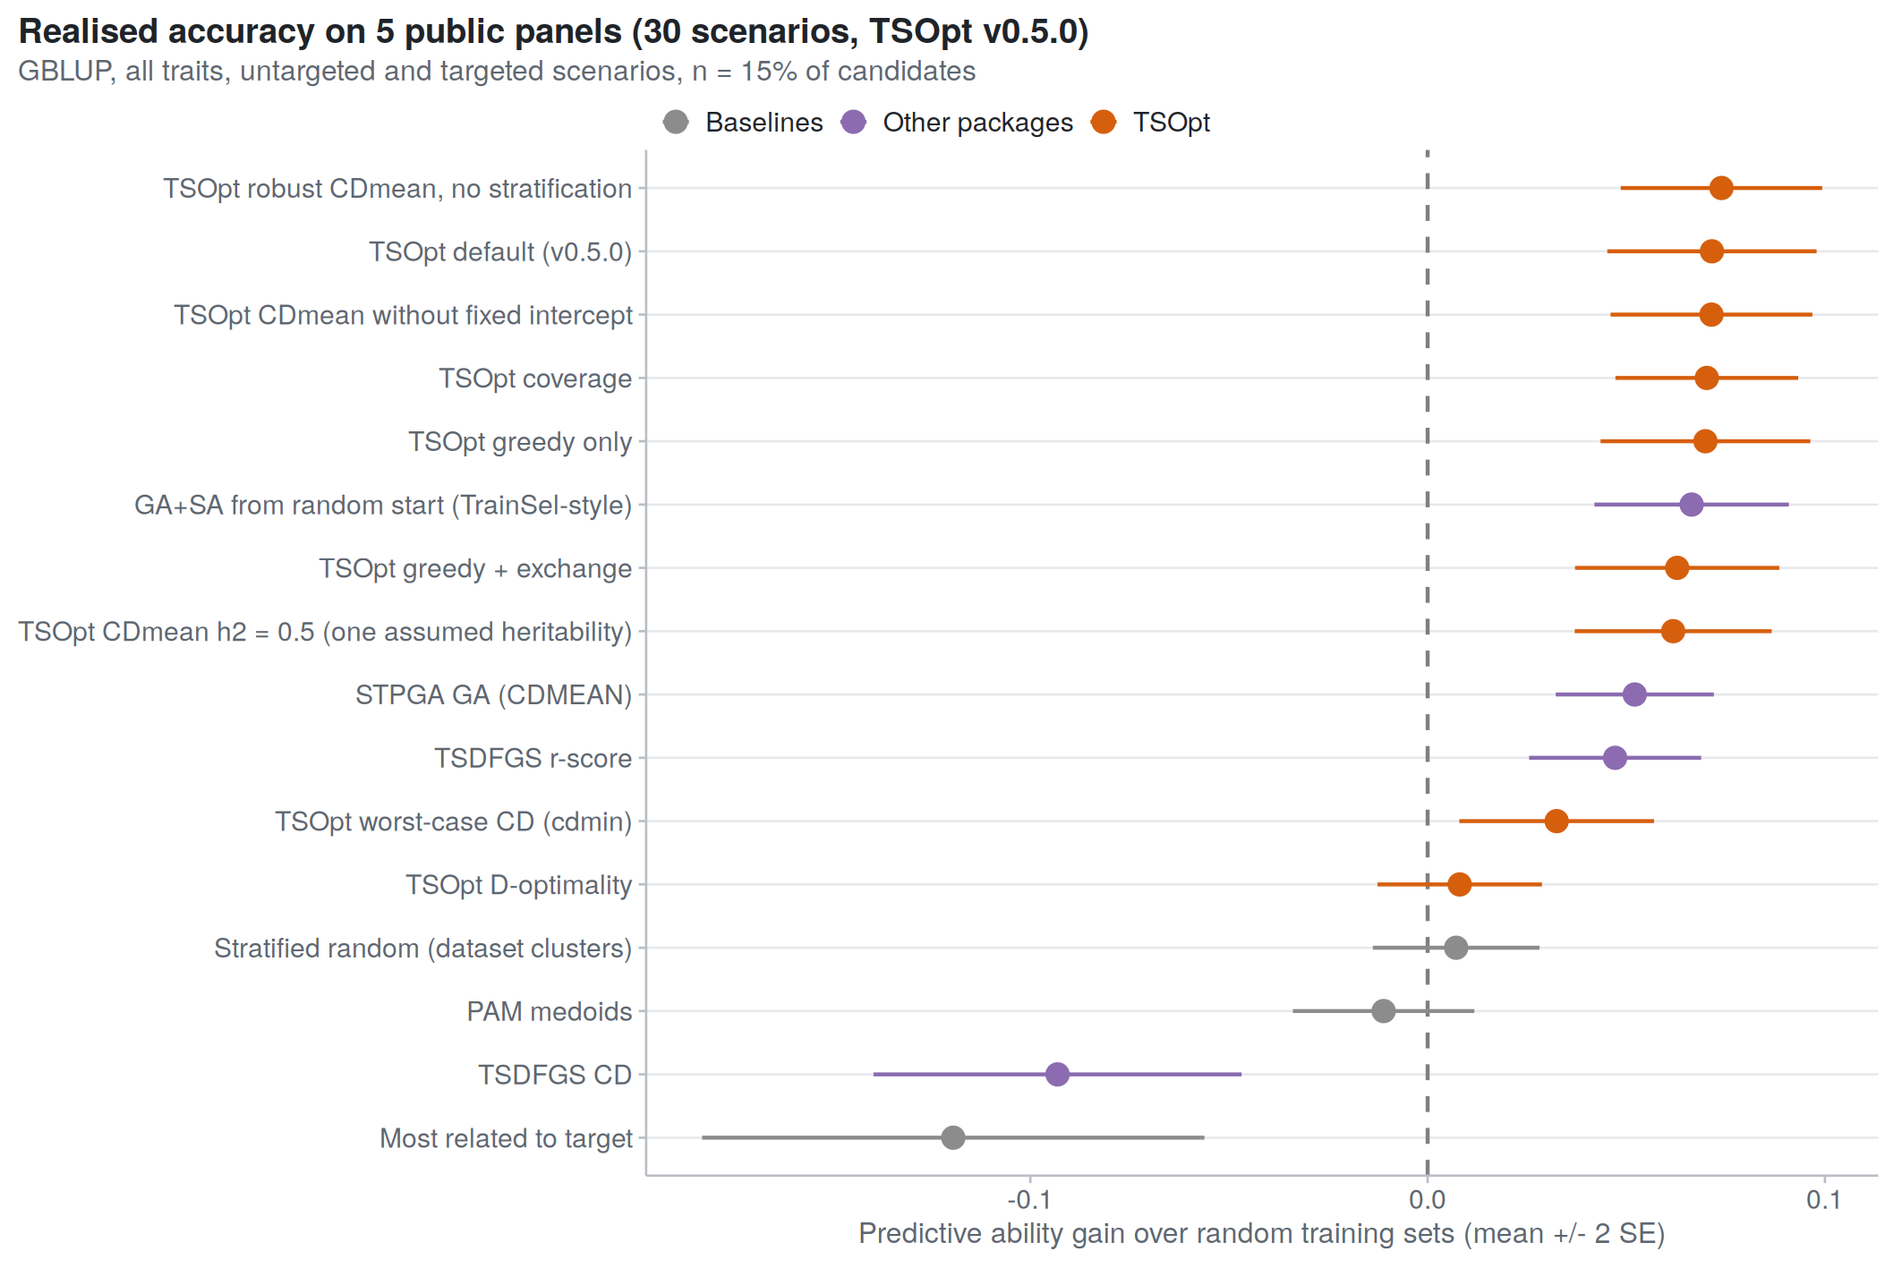
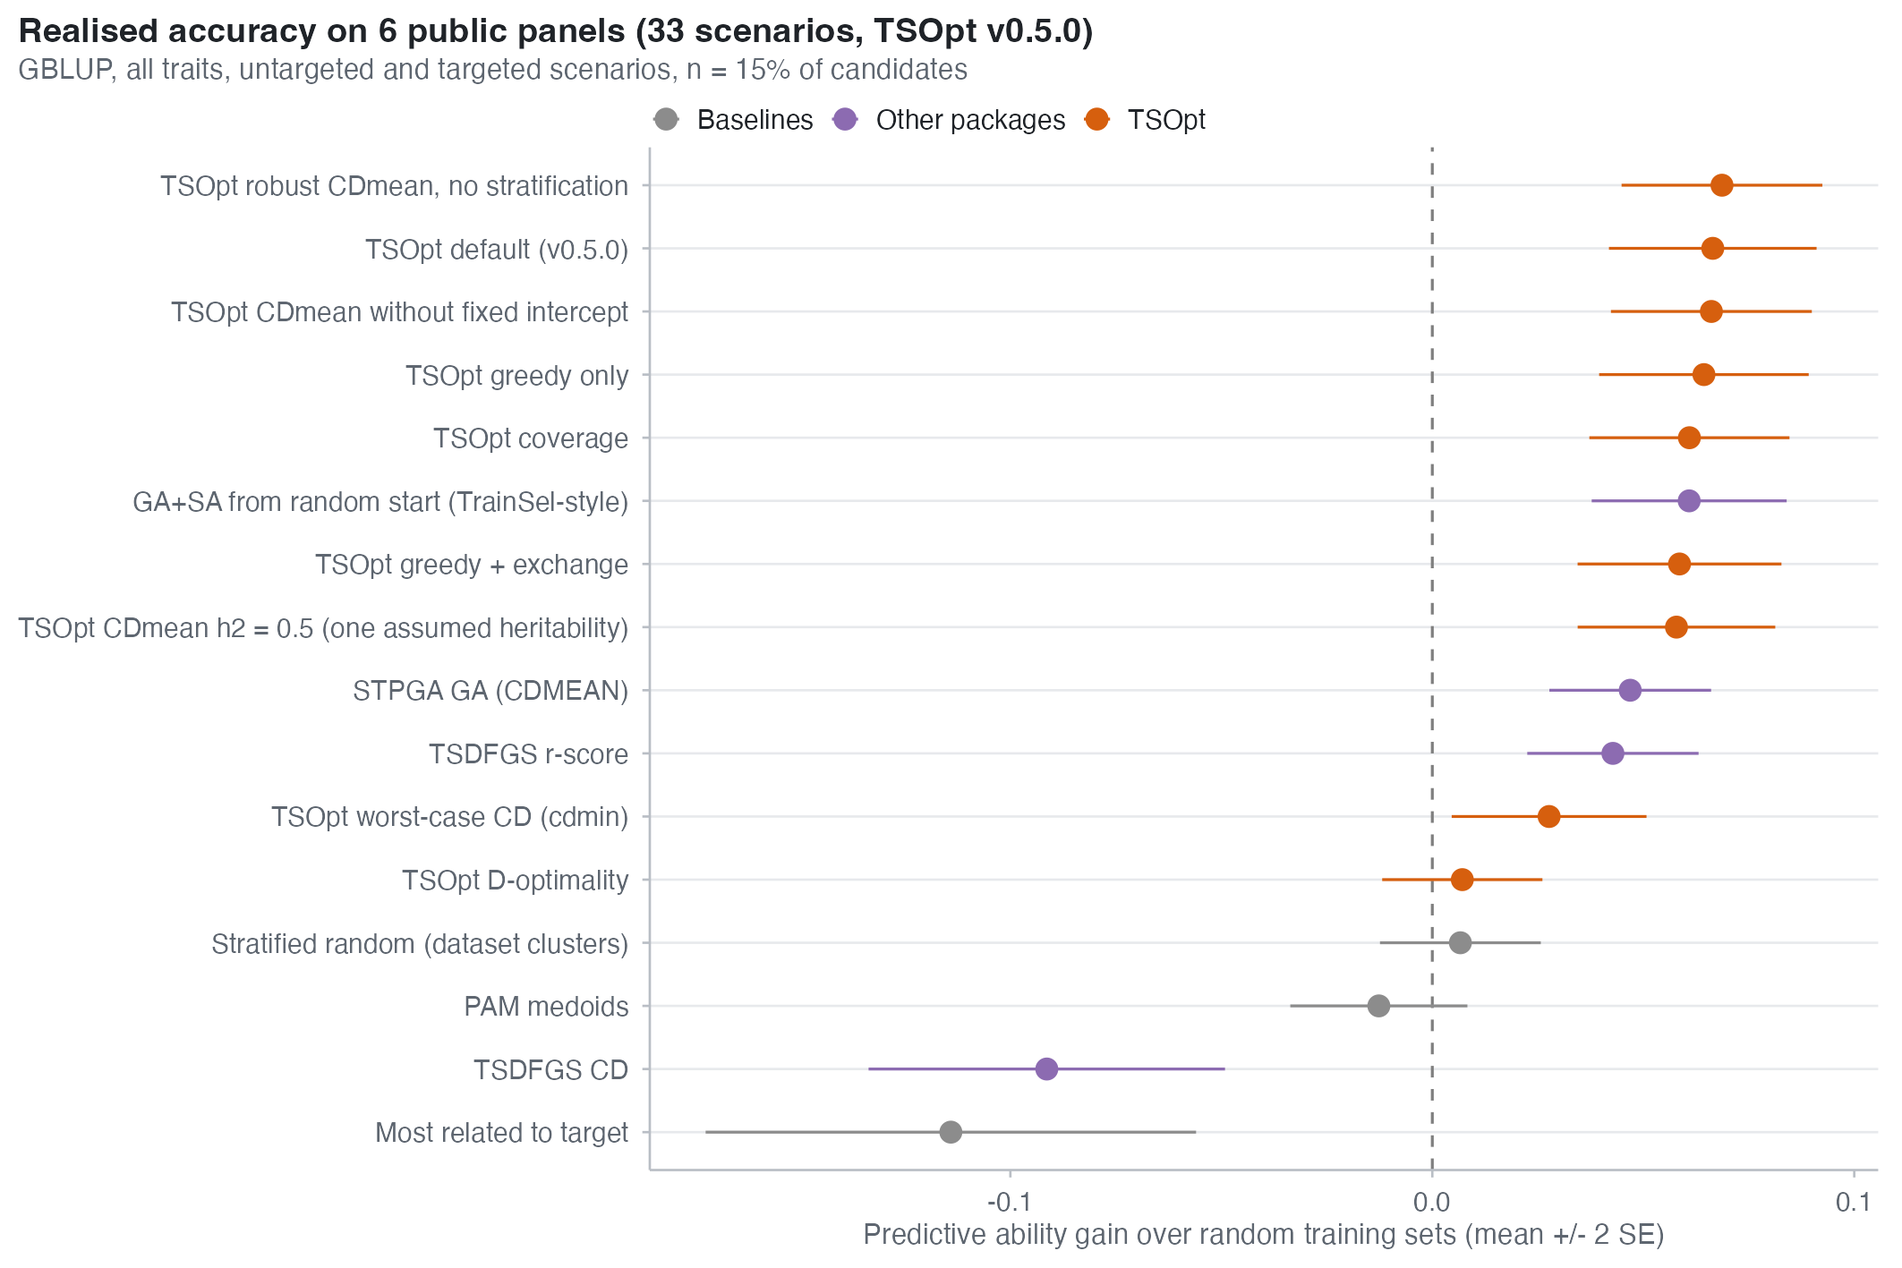
Benchmark: complete Spruce run (33 scenarios, six panels), file names matched to the release plan
- Spruce rerun with TSOpt 0.5.0 finished for every method; README, benchmark/README.md,
  EVIDENCE.md, STABILITY.md, REPRODUCIBILITY.md and the figures now use all 33 scenarios
- Install docs use the planned asset names (TSOpt_0.5.0_macos-arm64.tgz, _macos-x86_64.tgz)
- REPRODUCIBILITY.md says what the installed package already shows (R code) and what the
  source request covers (C engine, tests, build)

Claude-Session: https://claude.ai/code/session_01NcoSHn4t3meHxDN5W8ypQi

diff --git a/benchmark/README.md b/benchmark/README.md
@@ -20,69 +20,76 @@ All claims, with their data, effect sizes and number of runs, are collected in
 | | |
 |---|---|
 | Panels | The six public panels compiled by Fernández-González et al. (2023, *Theor Appl Genet* 136:30): Maize (391 lines), RicePS (357), Rice (327), Sorghum (451), Switchgrass (514) and Spruce (1,722), all traits of each. They are not redistributed here; obtain them from the original publication. |
-| Scenarios | **Untargeted**: the whole pool is scored. **Targeted**: a random 25% of lines are targets and are never phenotyped; 5 splits per panel (Spruce: 2). 33 scenarios in total. |
+| Scenarios | **Untargeted**: the whole pool is scored. **Targeted**: a random 25% of lines are targets and are never phenotyped; 5 splits per panel (Spruce: 2, because one TSDFGS r-score run takes about an hour on it). 33 scenarios in total. |
 | Budget | n = 15% of the candidates. |
 | Score | Every training set is scored in the same way: realised predictive ability (PA), the correlation of GBLUP predictions (REML heritability) with the phenotypes of the targets, averaged over traits. Also NDCG@10%, exact CDmean at h2 = 0.5, and wall-clock time on one core. |
 | Methods | The TSOpt default (`tso_design()` with nothing changed) and variants; **STPGA** 5.2.1 (genetic algorithm, CDMEAN); **TSDFGS** 2.0 (CD and r-score exchange); a genetic algorithm + simulated annealing from random starts on exact CDmean, in the style of TrainSel; baselines: random (5 draws), stratified random, PAM medoids, most related to the targets. |
 | TrainSel | Not run. Its licence forbids use by for-profit organisations. The GA + SA reproduces its search strategy on the same exact criterion, without its code. A comparison with TrainSel itself is pre-specified in [TRAINSEL_PROTOCOL.md](TRAINSEL_PROTOCOL.md). |
 
-**Completeness of the 0.5.0 run.** On Spruce the run with TSOpt 0.5.0 finished only the TSOpt
-methods, the GA + SA, and (on two targeted splits) STPGA and TSDFGS CD; the random draws,
-TSDFGS r-score and the baselines did not finish. Every comparison below therefore uses the
-**30 complete scenarios on five panels**. Rerunning Spruce in full is on the to-do list.
-
-## Results (TSOpt 0.5.0; 30 scenarios, 5 panels)
+## Results (TSOpt 0.5.0; 33 scenarios, 6 panels)
 
 | Method | PA gain over random | Beats random | Median time |
 |---|---|---|---|
-| **TSOpt default (v0.5.0)** | **+0.072** | **90%** | **0.03 s** |
-| TSOpt robust CDmean, no stratification | +0.074 | 93% | 0.03 s |
-| TSOpt greedy only | +0.070 | 87% | 0.01 s |
-| TSOpt coverage | +0.070 | 90% | 0.11 s |
-| GA + SA from random start (TrainSel-style) | +0.066 | 87% | 4.8 s |
-| TSOpt greedy + exchange | +0.063 | 83% | 0.02 s |
-| TSOpt CDmean, h2 = 0.5 only | +0.062 | 83% | 0.05 s |
-| STPGA GA (CDMEAN) | +0.052 | 83% | 118 s |
-| TSDFGS r-score | +0.047 | 87% | 40 s |
-| Stratified random | +0.007 | 60% | 0 s |
-| PAM medoids | -0.011 | 50% | 0.1 s |
-| TSDFGS CD | -0.093 | 27% | 1.6 s |
-| Most related to the targets | -0.119 | 27% | 0.1 s |
+| **TSOpt default (v0.5.0)** | **+0.066** | **88%** | **0.03 s** |
+| TSOpt robust CDmean, no stratification | +0.069 | 91% | 0.03 s |
+| TSOpt CDmean without fixed intercept | +0.066 | 88% | 0.04 s |
+| TSOpt greedy only (h2 = 0.5) | +0.064 | 85% | 0.02 s |
+| TSOpt coverage | +0.061 | 85% | 0.13 s |
+| GA + SA from random start (TrainSel-style) | +0.061 | 85% | 5.4 s |
+| TSOpt greedy + exchange (h2 = 0.5) | +0.059 | 82% | 0.02 s |
+| TSOpt CDmean, one assumed h2 = 0.5 (tabu search) | +0.058 | 82% | 0.05 s |
+| STPGA GA (CDMEAN) | +0.047 | 79% | 120 s |
+| TSDFGS r-score | +0.043 | 82% | 40 s |
+| TSOpt worst-case CD (cdmin) | +0.028 | 67% | 0.39 s |
+| TSOpt D-optimality | +0.007 | 58% | 0.10 s |
+| Stratified random | +0.007 | 61% | 0 s |
+| PAM medoids | -0.013 | 45% | 0.12 s |
+| TSDFGS CD | -0.091 | 24% | 1.7 s |
+| Most related to the targets | -0.114 | 27% | 0.11 s |
 
-The TSOpt default against each competitor on the same scenarios (30 pairs): mean advantage in PA
+The TSOpt default against each competitor on the same scenarios (33 pairs): mean advantage in PA
 ± standard error, the share of scenarios it wins, and a two-sided sign test.
 
 | Competitor | Default's PA advantage | Default wins | Sign test p |
 |---|---|---|---|
-| Random | +0.072 ± 0.013 | 90% | < 0.001 |
-| STPGA | +0.019 ± 0.011 | 57% | 0.59 |
-| TSDFGS r-score | +0.024 ± 0.009 | 63% | 0.20 |
-| TrainSel-style GA + SA | +0.005 ± 0.006 | 70% | 0.04 |
-| TSOpt with one assumed h2 = 0.5 | +0.010 ± 0.006 | 73% | 0.02 |
-| Most related to the targets | +0.191 ± 0.030 | 87% | < 0.001 |
+| Random | +0.066 ± 0.012 | 88% | < 0.001 |
+| STPGA | +0.020 ± 0.010 | 58% | 0.49 |
+| TSDFGS r-score | +0.024 ± 0.008 | 64% | 0.16 |
+| TrainSel-style GA + SA | +0.006 ± 0.005 | 70% | 0.04 |
+| TSOpt with one assumed h2 = 0.5 | +0.009 ± 0.006 | 70% | 0.04 |
+| Most related to the targets | +0.181 ± 0.028 | 85% | < 0.001 |
+
+Times were measured with eight benchmark processes running at once, one core each.
 
 ![PA gain](results/fig_pa_gain.png)
 ![Accuracy against time](results/fig_time_vs_gain.png)
 
 ## What the results show
 
-1. **Optimisation pays, and the default is among the best.** The default gains +0.072 PA over
-   random and beats it in 90% of scenarios.
+1. **Optimisation pays, and the default is among the best.** The default gains +0.066 PA over
+   random and beats it in 88% of scenarios.
 2. **Against STPGA and TSDFGS: as accurate or better, about 1,000 to 4,000 times faster.** The
-   average advantage is +0.02, but it is not consistent scenario by scenario (wins 57-63%,
-   sign test not significant). The clear difference is time: 0.03 s against 40-118 s.
+   average advantage is +0.02, but it is not consistent scenario by scenario (wins 58-64%,
+   sign test not significant). The clear difference is time: 0.03 s against 40-120 s.
 3. **Hedging over heritability helps.** Averaging CDmean over h2 = 0.2, 0.5 and 0.8 beats a
-   single assumed h2 = 0.5 by +0.010 (73% of scenarios, p = 0.02). The supplementary probe
+   single assumed h2 = 0.5 by +0.009 (70% of scenarios, p = 0.04). The supplementary probe
    (`results/h2probe_*.csv`, `results/spruce_probe.csv`, run with an earlier version)
    compared fixed h2 values from 0.1 to 0.8.
-4. **A better criterion value is not a better prediction.** Exchange search reaches the
-   highest CDmean at the assumed h2 but predicts less well (+0.063) than the plain greedy set.
-5. **Choosing the lines most related to the targets lowers accuracy** (-0.119 against random),
+4. **A better criterion value is not a better prediction.** Exchange and tabu search reach the
+   highest CDmean at the assumed h2 but predict less well (+0.058 to +0.059) than the plain
+   greedy set.
+5. **Choosing the lines most related to the targets lowers accuracy** (-0.114 against random),
    and TSDFGS's CD mode was worse than random on every panel.
-6. **Two things we expected did not show in this run.** The exact fixed intercept made no
-   difference (+0.000 ± 0.006); an earlier version of the benchmark had found +0.013. And
-   turning stratification off was slightly ahead of the default (+0.002 ± 0.002). Neither
-   changes the default in 0.5.0; both are reported as found.
+6. **Optimisation is not always worth much.** On Spruce (low h2, 1,722 lines) no method gains
+   more than 0.02 PA over random. This is why `tso_diagnose()` exists.
+7. **Two things we expected did not show in this run.**
+   * **The exact fixed intercept** made no difference (+0.000 ± 0.006). An earlier version of
+     the benchmark (TSOpt 0.3) had found +0.013.
+   * **Automatic stratification**, new in the 0.5 default, gave no gain. Turning it off was
+     slightly ahead (+0.002 ± 0.002): the two designs are identical on four panels, and
+     stratification cost 0.010 on RicePS and 0.002 on Switchgrass.
+
+   Neither changes the default in 0.5.0; both are reported as found.
 
 Per-panel gains are in `results/benchmark_pa_gain_by_dataset.csv`.
 
@@ -91,7 +98,7 @@ Per-panel gains are in `results/benchmark_pa_gain_by_dataset.csv`.
 ```sh
 export TSO_BENCH_DATA=/path/to/Fernandez-Gonzalez_2023/Datasets   # the six panels
 export TSO_BENCH_OUT=results
-Rscript run_benchmark.R RicePS Rice Maize Sorghum Switchgrass Spruce   # several hours, mostly STPGA/TSDFGS
+Rscript run_benchmark.R RicePS Rice Maize Sorghum Switchgrass Spruce   # several hours, mostly STPGA/TSDFGS on Spruce
 Rscript analyse_benchmark.R results results
 ```
 

diff --git a/docs/EVIDENCE.md b/docs/EVIDENCE.md
@@ -7,17 +7,17 @@ Scripts and raw results are in [`benchmark/`](../benchmark/).
 
 ## Prediction accuracy of training sets
 
-The head-to-head rows come from the run with TSOpt 0.5.0 (30 complete scenarios on five
-panels; the Spruce run is incomplete, see [benchmark/README.md](../benchmark/README.md)).
+The head-to-head rows come from the run with TSOpt 0.5.0 (33 scenarios on six panels, see
+[benchmark/README.md](../benchmark/README.md)).
 
 | Claim | Data | Effect (SE) | Runs | Source |
 |---|---|---|---|---|
-| The default (robust CDmean) predicts better than random | Real: 5 public panels (maize, 2 rice, sorghum, switchgrass), all traits | PA +0.072 ± 0.013 over random; beats random in 90% of scenarios | 30 scenarios | [benchmark/README.md](../benchmark/README.md) |
-| ... at least as well as STPGA, about 4,000 times faster | same | +0.019 ± 0.011; wins 57% (sign test n.s.); 0.03 s vs 118 s | 30 pairs | same |
-| ... at least as well as TSDFGS r-score, about 1,300 times faster | same | +0.024 ± 0.009; wins 63% (n.s.); 0.03 s vs 40 s | 30 pairs | same |
-| ... and slightly better than a TrainSel-style GA + SA (our implementation, not TrainSel's code) | same | +0.005 ± 0.006; wins 70% | 30 pairs | same |
-| Hedging over heritability beats one assumed h2 | same | +0.010 ± 0.006 over h2 = 0.5; wins 73%, sign test p = 0.02 | 30 pairs | same; probe of fixed h2 0.1-0.8 (earlier version) in `results/h2probe_*.csv` |
-| "Most related to the target" is harmful | same | PA -0.119 vs random; beats random 27% | 30 scenarios | same |
+| The default (robust CDmean) predicts better than random | Real: 6 public panels (maize, 2 rice, sorghum, switchgrass, spruce), all traits | PA +0.066 ± 0.012 over random; beats random in 88% of scenarios | 33 scenarios | [benchmark/README.md](../benchmark/README.md) |
+| ... at least as well as STPGA, about 4,000 times faster | same | +0.020 ± 0.010; wins 58% (sign test n.s.); 0.03 s vs 120 s | 33 pairs | same |
+| ... at least as well as TSDFGS r-score, about 1,300 times faster | same | +0.024 ± 0.008; wins 64% (n.s.); 0.03 s vs 40 s | 33 pairs | same |
+| ... and slightly better than a TrainSel-style GA + SA (our implementation, not TrainSel's code) | same | +0.006 ± 0.005; wins 70% | 33 pairs | same |
+| Hedging over heritability beats one assumed h2 | same | +0.009 ± 0.006 over h2 = 0.5; wins 70%, sign test p = 0.04 | 33 pairs | same; probe of fixed h2 0.1-0.8 (earlier version) in `results/h2probe_*.csv` |
+| "Most related to the target" is harmful | same | PA -0.114 vs random; beats random 27% | 33 scenarios | same |
 | Forward in time: choosing this cycle's plots | Simulated programme histories (40 x 6 cycles, h2 0.3 and 0.6) | PA +0.009 over random (SE 0.003, t = 3.1); wins 61% | 200 cycle tests | `benchmark/forward_benchmark.R` |
 | Forward in time: choosing the training set from history | same | PA +0.091 over random (SE 0.007, t = 13.4); wins 83% | 200 cycle tests | same |
 | Forward in time: most related is harmful | same | within cycle PA -0.013 (t = -4.1) | 200 cycle tests | same |
@@ -49,8 +49,6 @@ see [REPRODUCIBILITY.md](REPRODUCIBILITY.md)) and by the base-R scripts in the p
 
 ## What is not yet shown
 
-* **The full Spruce panel with TSOpt 0.5.0.** Its random draws, TSDFGS r-score and baselines
-  did not finish; it is excluded from the comparisons above until rerun.
 * **Forward validation on real multi-year data.** The forward results use simulated
   programme histories. `tso_backtest()` runs the same test on a programme's own data;
   results from real programmes are the next step.

diff --git a/README.md b/README.md
@@ -96,12 +96,12 @@ flowchart LR
 | Step | What to do |
 |:--:|:--|
 | **1** | **Request your free key.** Email **[waseemhussain@plantnura.com](mailto:waseemhussain@plantnura.com?subject=TSOpt%20licence%20key%20request&body=Name%3A%0AOrganisation%3A%0ACountry%3A%0AIntended%20use%3A%0A%0AI%20accept%20the%20TSOpt%20licence%20terms.)** with your name, organisation, country and intended use. You receive a personal key, usually within two working days. [How keys work →](docs/LICENCE_KEY.md) |
-| **2** | **Install the package** from the **[Releases](../../releases)** page (no compiler needed). Available now for **macOS on Apple silicon (M1–M4) with R 4.5** (file `TSOpt_0.5.0.tgz`); Windows, Intel Mac and Linux builds are being prepared. [Installation guide →](docs/INSTALL.md) |
+| **2** | **Install the package** from the **[Releases](../../releases)** page (no compiler needed). Available now for **macOS on Apple silicon (M1–M4) with R 4.5** (file `TSOpt_0.5.0_macos-arm64.tgz`); Windows, Intel Mac and Linux builds are being prepared. [Installation guide →](docs/INSTALL.md) |
 | **3** | **Activate the key** once: `library(TSOpt); tso_licence("TSO1....")`. It is saved on your computer. |
 
 ```r
 install.packages(c("data.table", "ggplot2", "scales", "jsonlite", "patchwork"))   # once
-install.packages("~/Downloads/TSOpt_0.5.0.tgz", repos = NULL)   # the file from Releases (macOS, Apple silicon)
+install.packages("~/Downloads/TSOpt_0.5.0_macos-arm64.tgz", repos = NULL)   # the file from Releases (macOS, Apple silicon)
 
 library(TSOpt)
 tso_licence("TSO1....")                              # your key, once
@@ -203,9 +203,9 @@ flowchart TD
 
 ## 📈 Does it work?
 
-On **five public panels** (maize, two rice panels, sorghum and switchgrass, with real phenotypes, 30 scenarios;
-TSOpt 0.5.0), TSOpt's default improved predictive ability over random sampling by **+0.072**, winning **90%** of
-scenarios. It was at least as accurate as STPGA and TSDFGS (+0.019 and +0.024 on average) and about
+On **six public panels** (maize, two rice panels, sorghum, switchgrass and white spruce, with real phenotypes,
+33 scenarios; TSOpt 0.5.0), TSOpt's default improved predictive ability over random sampling by **+0.066**, winning
+**88%** of scenarios. It was at least as accurate as STPGA and TSDFGS (+0.020 and +0.024 on average) and about
 **1,000 to 4,000 times faster** (0.03 s instead of 40 to 120 s). Choosing the lines "most related to the targets",
 a common rule of thumb, *lowered* accuracy.
 

diff --git a/docs/INSTALL.md b/docs/INSTALL.md
@@ -10,8 +10,8 @@ package for your system.
 
   | Your system | File | Status |
   |:--|:--|:--|
-  | macOS on **Apple silicon** (M1–M4), R 4.5 | `TSOpt_0.5.0.tgz` | ✅ available |
-  | macOS on Intel | (to be announced) | in preparation |
+  | macOS on **Apple silicon** (M1–M4), R 4.5 | `TSOpt_0.5.0_macos-arm64.tgz` | ✅ available |
+  | macOS on Intel | `TSOpt_0.5.0_macos-x86_64.tgz` | in preparation |
   | Windows | `TSOpt_0.5.0.zip` | in preparation |
   | Linux (x86-64) | `TSOpt_0.5.0_R_x86_64-pc-linux-gnu.tar.gz` | in preparation |
 
@@ -31,7 +31,7 @@ Open R or RStudio and run:
 install.packages(c("data.table", "ggplot2", "scales", "jsonlite", "patchwork"))
 
 # TSOpt itself: the path to the file you downloaded
-install.packages("~/Downloads/TSOpt_0.5.0.tgz", repos = NULL)    # macOS, Apple silicon (available now)
+install.packages("~/Downloads/TSOpt_0.5.0_macos-arm64.tgz", repos = NULL)    # macOS, Apple silicon (available now)
 
 # when the other builds are released:
 # install.packages("C:/Users/you/Downloads/TSOpt_0.5.0.zip", repos = NULL)                # Windows
@@ -91,7 +91,7 @@ TSOpt works without these, and uses them when present:
 | `the licence expired on ...` | Ask for a new key (keys are valid for 12 months) |
 | `the key is damaged` | Copy the whole key, from `TSO1.` to the end, in one piece |
 | `package ... was built under R version ...` | A warning only; if the package does not load, ask for a file for your R version |
-| Installation fails on macOS with "cannot open file" | Use the full path, e.g. `"~/Downloads/TSOpt_0.5.0.tgz"` |
+| Installation fails on macOS with "cannot open file" | Use the full path, e.g. `"~/Downloads/TSOpt_0.5.0_macos-arm64.tgz"` |
 
 Still stuck? [Open an issue](../../../issues/new/choose) (don't include your key) or email
 [waseemhussain@plantnura.com](mailto:waseemhussain@plantnura.com).

diff --git a/docs/REPRODUCIBILITY.md b/docs/REPRODUCIBILITY.md
@@ -25,9 +25,9 @@ in the same way for every method. Each script states, at its top, the data it ne
 * **Raw results** for every run are in [`benchmark/results/`](../benchmark/results/), so the summaries and
   figures can be checked without rerunning anything.
 * **Version.** The head-to-head benchmark was run with TSOpt 0.5.0, the released version. The method
-  labelled "TSOpt default (v0.5.0)" is the package's default call, with no options changed. On Spruce that
-  run is incomplete, so the published comparisons use the 30 complete scenarios on five panels
-  ([details](../benchmark/README.md)). The other benchmarks name the version they were run with.
+  labelled "TSOpt default (v0.5.0)" is the package's default call, with no options changed. All 33 scenarios on
+  the six panels are complete ([details](../benchmark/README.md)). The other benchmarks name the version
+  they were run with.
 
 ## Source code for verification
 
@@ -40,6 +40,11 @@ availability.
 * **Access is given under a short written agreement** that permits review and verification, but not
   redistribution.
 * **Reviewers** of a manuscript about TSOpt also receive a licence key at once.
+* **What the installed package already shows.** As with any R package, the R-level code is
+  installed in R's byte-compiled form and can be read with `TSOpt:::name` (for example
+  `TSOpt:::.gblup`, the GBLUP fit the benchmark scores every method with). What ships as a
+  compiled binary only is the C engine (the rank-one updates) and the licence check. The source
+  request above covers the C sources, the test suite and the build.
 
 ## What the published results use
 

diff --git a/docs/STABILITY.md b/docs/STABILITY.md
@@ -21,7 +21,7 @@ says otherwise.
 
 | Default | Evidence |
 |---|---|
-| Robust CDmean (h2 = 0.2, 0.5, 0.8), greedy rank-one search | 5 public panels, 30 scenarios, TSOpt 0.5.0 ([benchmark/README.md](../benchmark/README.md)) |
+| Robust CDmean (h2 = 0.2, 0.5, 0.8), greedy rank-one search | 6 public panels, 33 scenarios, TSOpt 0.5.0 ([benchmark/README.md](../benchmark/README.md)) |
 | Additive kernel (kernels are opt-in) | 720 paired runs with 30-50% epistasis ([benchmark/KERNELS.md](../benchmark/KERNELS.md)) |
 | SNP kernel, CDmean (haplotypes are opt-in) | 4 real panels, 120 paired runs ([benchmark/HAPLOTYPES.md](../benchmark/HAPLOTYPES.md)) |
 | Stratification when the panel has discrete groups | [benchmark/README.md](../benchmark/README.md) |
